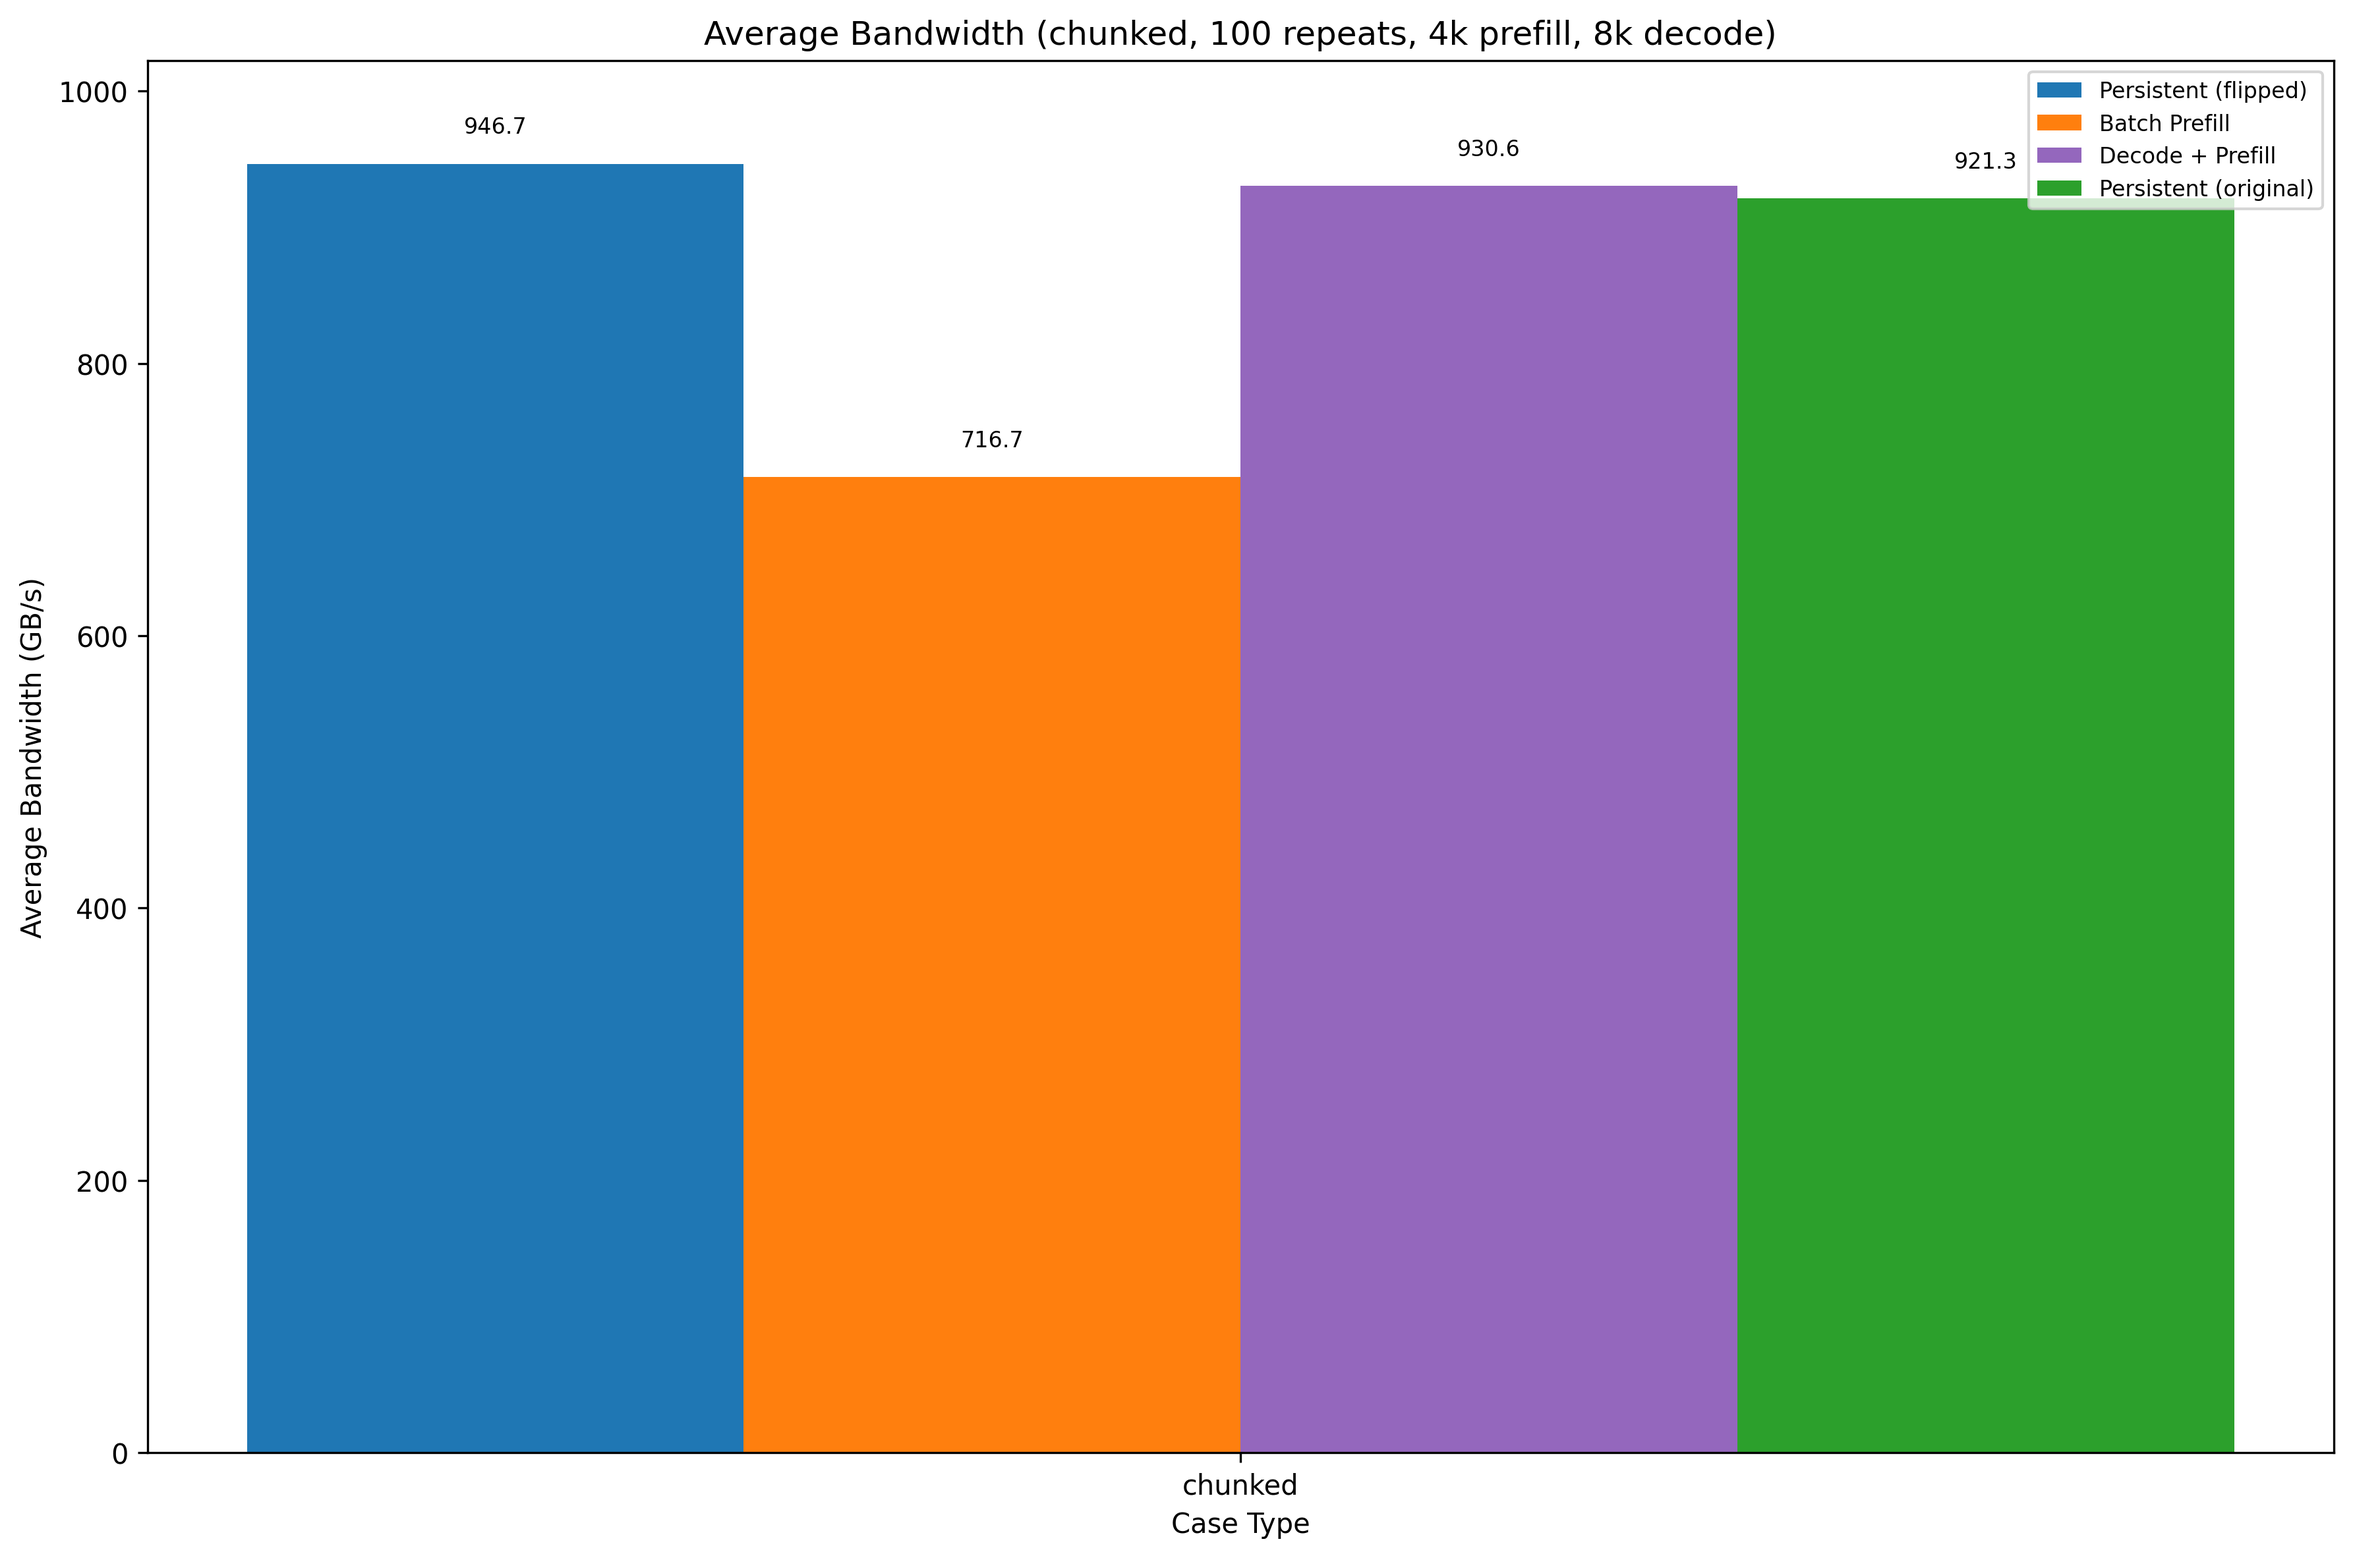
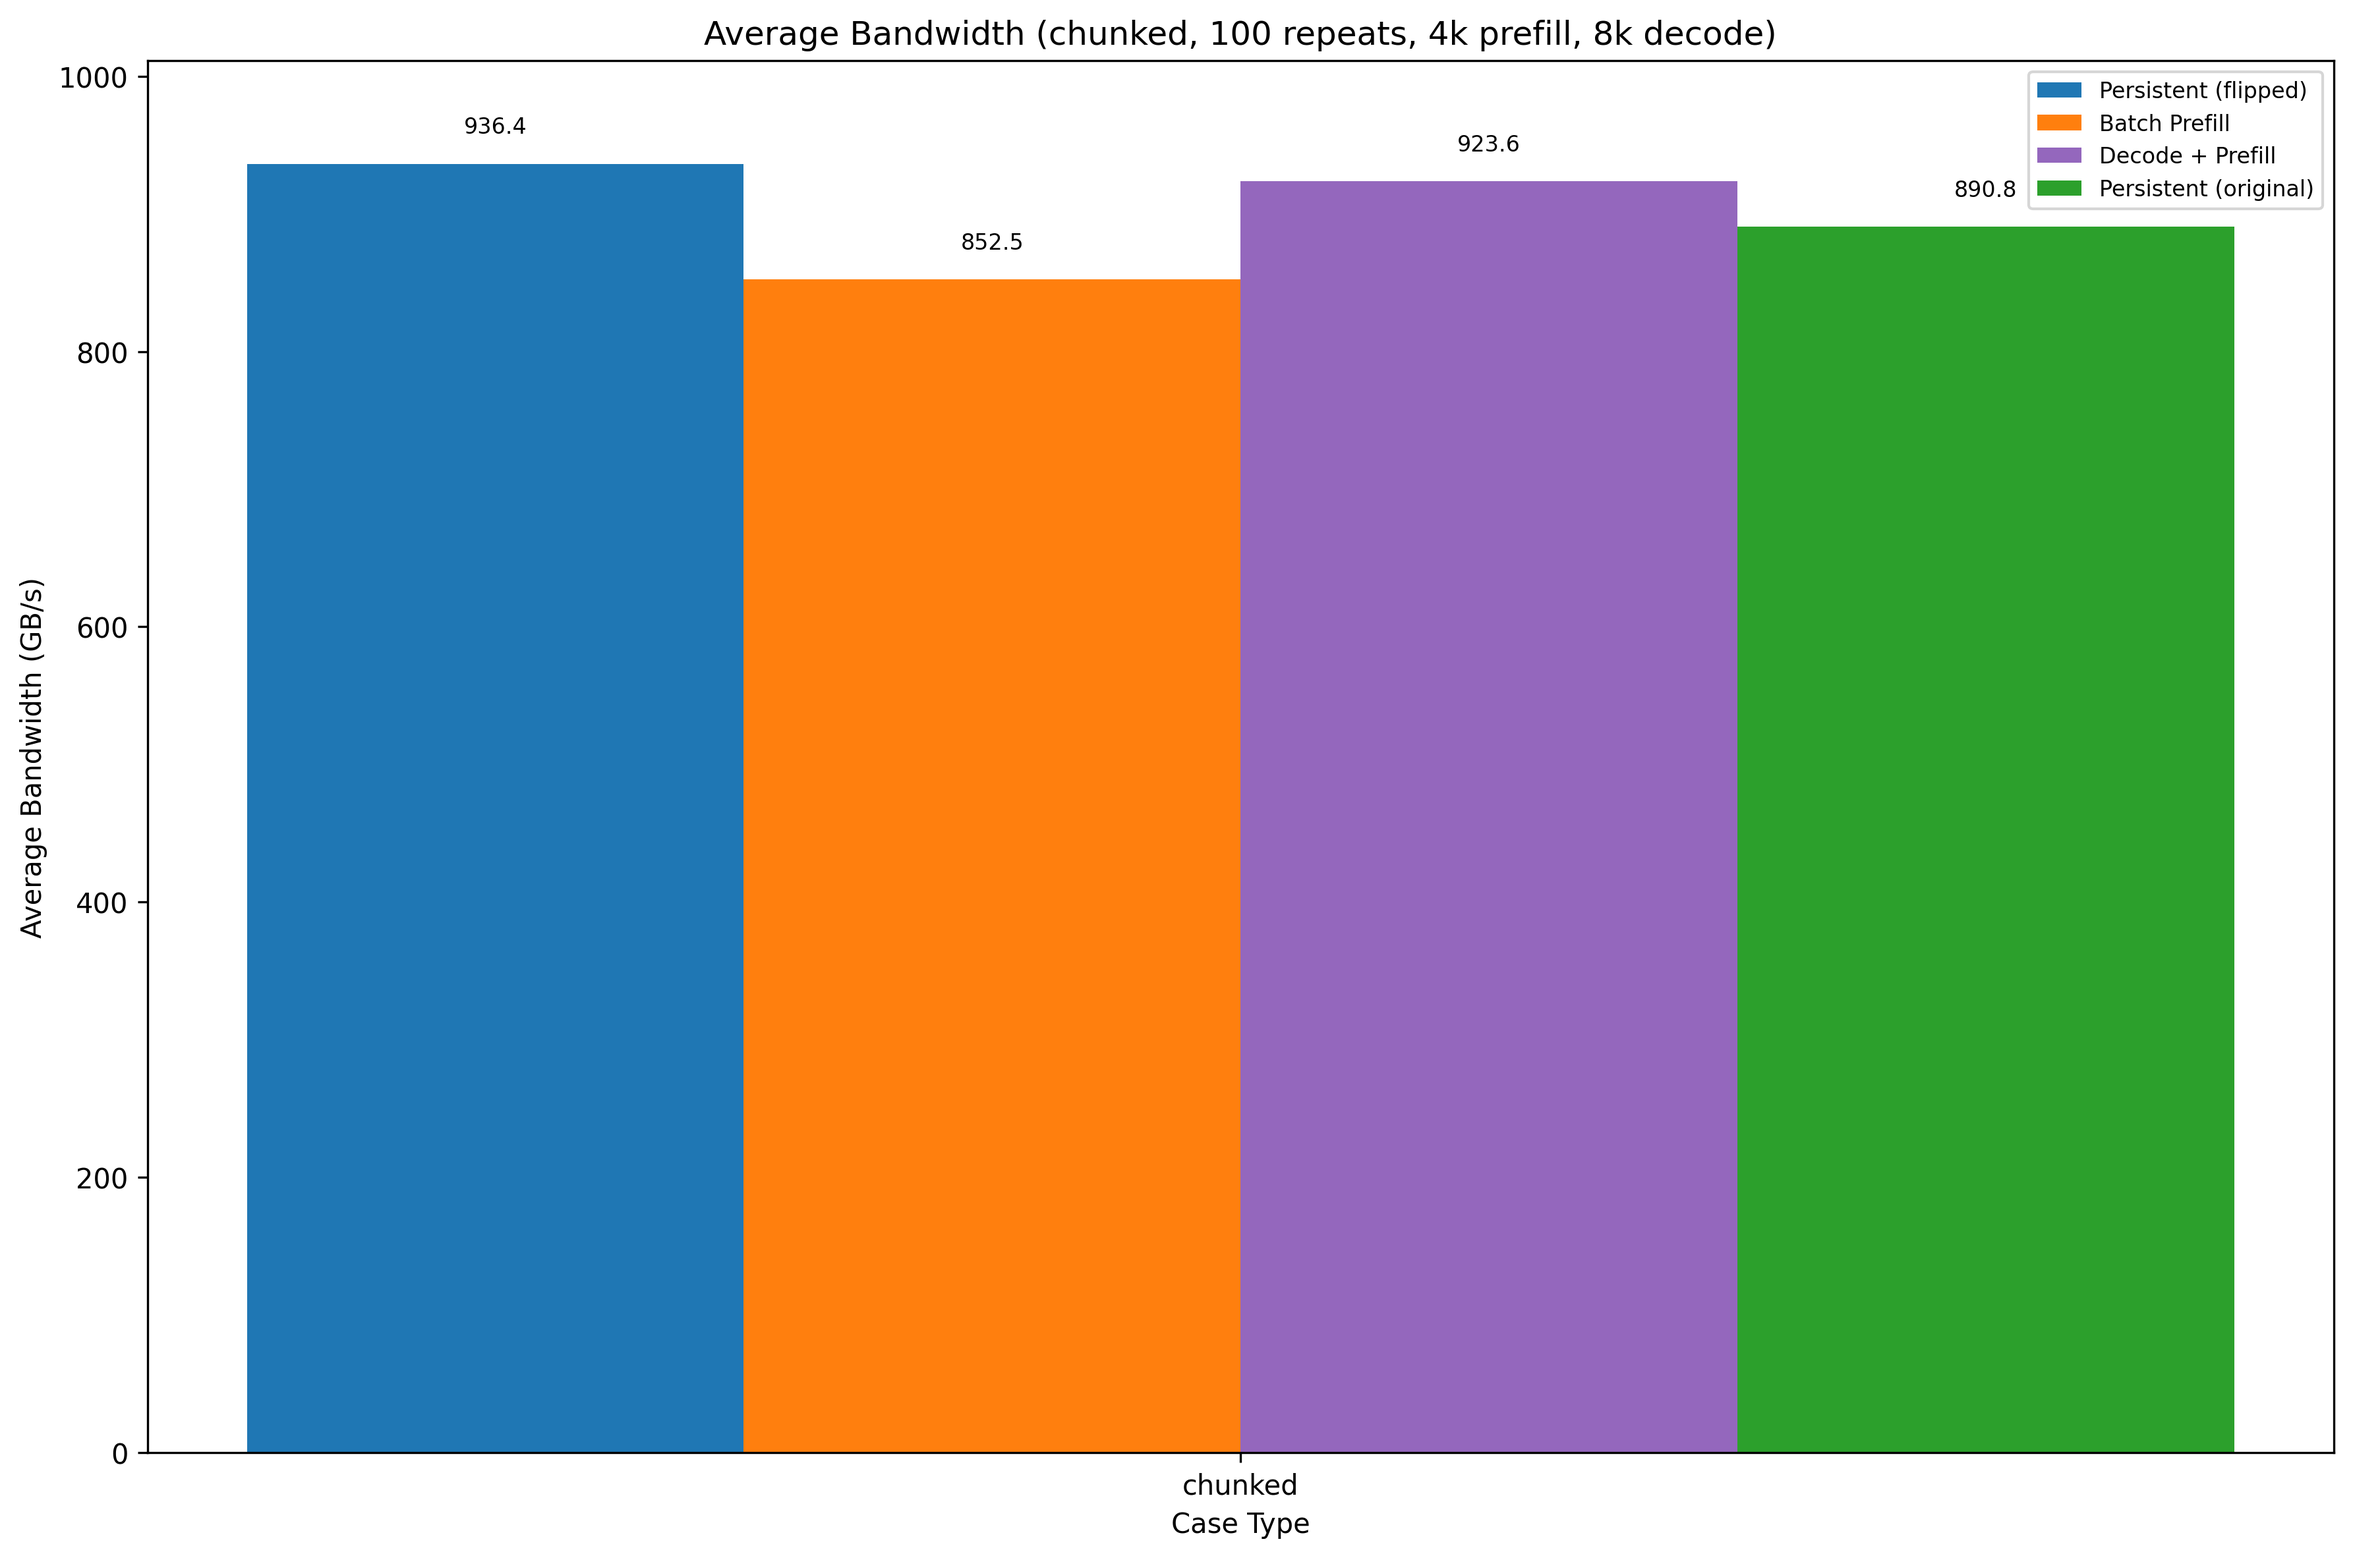
update plots

diff --git a/benchmarks/bench_batch_attention.py b/benchmarks/bench_batch_attention.py
@@ -54,7 +54,7 @@ def run_bench(
         device=device,
     )
 
-    # old
+    # old (skip, the first wrapper suffers significant latency...)
     wrapper_old = flashinfer.BatchPrefillWithPagedKVCacheWrapper(
         torch.empty(128 * 1024 * 1024, dtype=torch.uint8, device=device),
         kv_layout="NHD",
@@ -76,10 +76,11 @@ def run_bench(
         kv_data_type=torch.bfloat16,
     )
     end_time = time.perf_counter()
-    measurements_old = bench_gpu_time(
-        lambda: wrapper_old.run(q, kv_data), repeat_iters=repeats
-    )
-    ms_old = np.mean(measurements_old) + (end_time - start_time) * 1000 / NUM_LAYERS
+    # measurements_old = bench_gpu_time(
+    # lambda: wrapper_old.run(q, kv_data), repeat_iters=repeats
+    # )
+    wrapper_old.run(q, kv_data)
+    # ms_old = np.mean(measurements_old) + (end_time - start_time) * 1000 / NUM_LAYERS
 
     # Fused kernel
     wrapper = flashinfer.BatchAttention(kv_layout="NHD")
@@ -298,11 +299,11 @@ def synthesize_seq_len_configs(
 def main(args: argparse.Namespace) -> None:
     np.random.seed(42)
     torch.random.manual_seed(42)
-    decode_len = 16384
-    prefill_len = 8192
-    prefill_chunk_size = 8192
+    decode_len = 1024
+    prefill_len = 4096
+    prefill_chunk_size = 4096
     num_prefill_reqs = 1
-    num_decode_reqs = 0  # 128
+    num_decode_reqs = 8
 
     decode_lens, prefill_lens = synthesize_seq_len_configs(
         decode_len, prefill_len, prefill_chunk_size, num_prefill_reqs, num_decode_reqs
